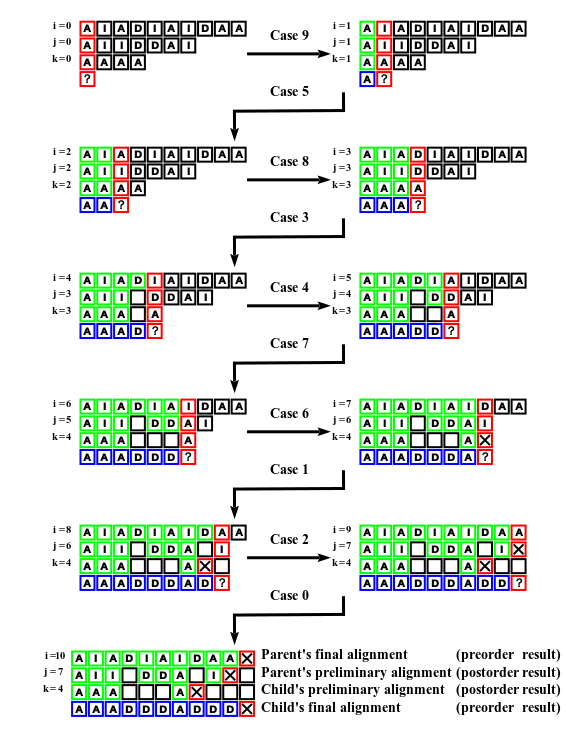
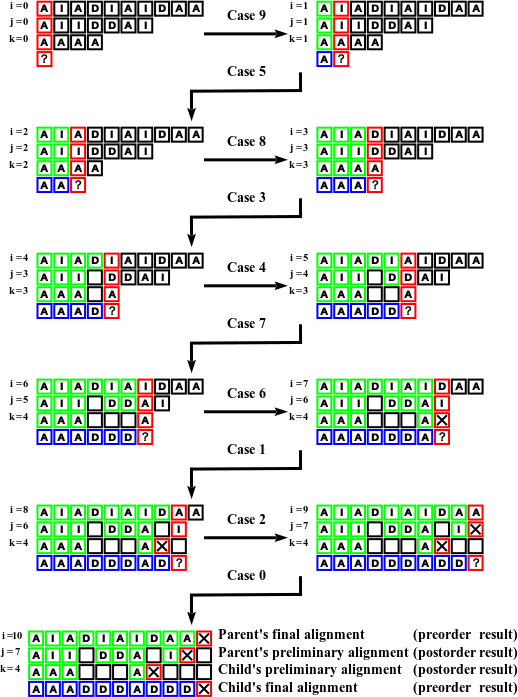
Making many small corrections

diff --git a/tex/Efficient-Implied-Alignment.tex b/tex/Efficient-Implied-Alignment.tex
@@ -301,7 +301,7 @@ If we were to use Ukkonnen's method with the example $\otimes$ function describe
 
 \section{Description of pre-order traversal for final alignments}
 The preorder traversal of the binary tree $\mathcal{T}$ consumes the preliminary alignment context decorations created in the postorder traversal in order to assign final alignment context decorations to each node.
-First, the root node must be initialized for the preorder traversal by assigning the final alignment context as the preliminary alignment context with all deletion events replaced with substitution events.
+First, the root node must be initialized for the preorder traversal by assigning the final alignment context as the preliminary alignment context with all deletion events replaced with insertion events.
 This is required because at the root node, deletion events originated from  alignments of the left subtree and insertion events originated from alignments of the right sub tree, however the origin of these events are indistinguishable at the root node.
 By initializing the root node in this manner, we treat the root node the same as we would any other parental node when deriving the internal node alignments.
 
@@ -310,7 +310,7 @@ If it is the left child, then each deletion event of the parent node's final ali
 This is required because (as with the root) deletion events originate from alignments of the left subtree and insertion events originate from alignments of the right subtree, however we must consider the converse for the resulting alignment to be consistent when assigning the final alignment context to a node which is the left child of it's parent.
 
 Once the parental final alignment context has been correctly initialized, we proceed to assign the final alignment context of the current node.
-The parental final alignment context will necessarily be of greater than or equal length to the parental preliminary alignment context and the current node's preliminary alignment context due to the addition of alignment gaps $\gap$.
+The parental final alignment context will necessarily be of greater than or equal length to the parental preliminary alignment context and the parental preliminary alignment context is also greater than or equal to than the current node's preliminary alignment context due to the addition of alignment gaps $\gap$ on the postorder.
 The resulting value assigned to the current node's final alignment context will have the same length as the parental final alignment context.
 Since this invariant is maintained from the root node to the leaf node's final alignment context assignments, all alignments will have the same length.
 This constitutes a simple inductive proof that all node's final alignment assignments will be of equal length and constitute a genuine string alignment.
@@ -512,11 +512,10 @@ Hence, the worst case runtime of the implied alignment algorithm is $\mathcal{O}
 
 
 \begin{figure}[h]
-	\raggedleft
 	\caption{Example preorder alignment for two internal nodes}
 	\label{Fig:ExamplePreorder}
-	\hspace{-10em}
-	\includegraphics[width=1.2\textwidth, inner]{example-preorder.png}
+	\vspace{2ex}
+	\includegraphics{example-preorder.png}
 \end{figure}
 
 \restoregeometry
@@ -653,7 +652,7 @@ $\sigma_2$ & A & C & G & T & -- \\ \hline
 % Date and time: Fri, Oct 11, 2019 - 11:29:04 AM
 % Requires LaTeX packages: dcolumn 
 \begin{table}[!htbp] \centering 
-	\caption{Regression coefficients of leaf-set size and string length on runtime} 
+	\caption{Regression coefficients of string count and string length on runtime} 
 	\label{Tab:Regression} 
 	\begin{tabular}{@{\extracolsep{5pt}}lD{.}{.}{-3} D{.}{.}{-3} D{.}{.}{-3} D{.}{.}{-3} } 
 		\\[-1.8ex]\hline 
@@ -753,7 +752,7 @@ Even an incredibly expensive, poly-time heuristic function $\otimes$ would have 
 The iterative approximation would cease needing to be iterative and rather be an \emph{invariant} approximation.
 
 \section{Acknowledgements}
-We would like to thank Eric Ford, Katherine St. John, and Erilia Wu for insightful discussions. This work was supported by DARPA SIMPLEX (``Integrating Linguistic, Ethnographic, and Genetic Information of Human Populations: Databases and Tools,'' DARPA-BAA-14-59 SIMPLEX TA-2, 2015-2018)
+We would like to thank Eric Ford, Callan McGill, Katherine St. John, and Erilia Wu for insightful discussions. This work was supported by DARPA SIMPLEX (``Integrating Linguistic, Ethnographic, and Genetic Information of Human Populations: Databases and Tools,'' DARPA-BAA-14-59 SIMPLEX TA-2, 2015-2018)
  and Robert J. Kleberg Jr. and Helen C. Kleberg foundation grant ``Mechanistic Analyses of Pancreatic Cancer Evolution''.
 
 \newpage
